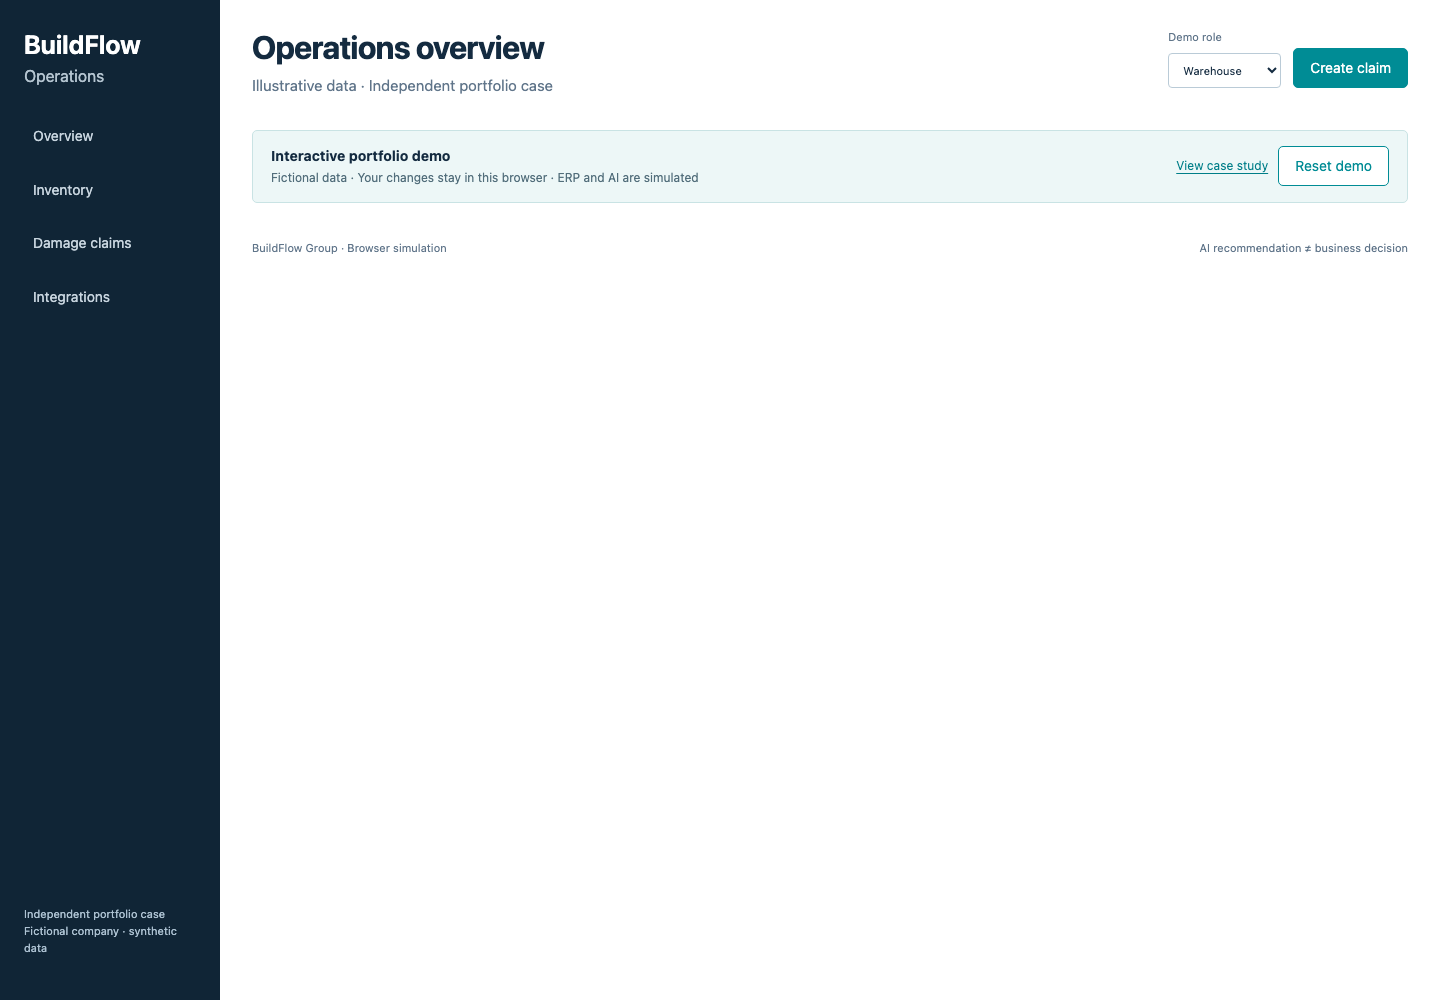
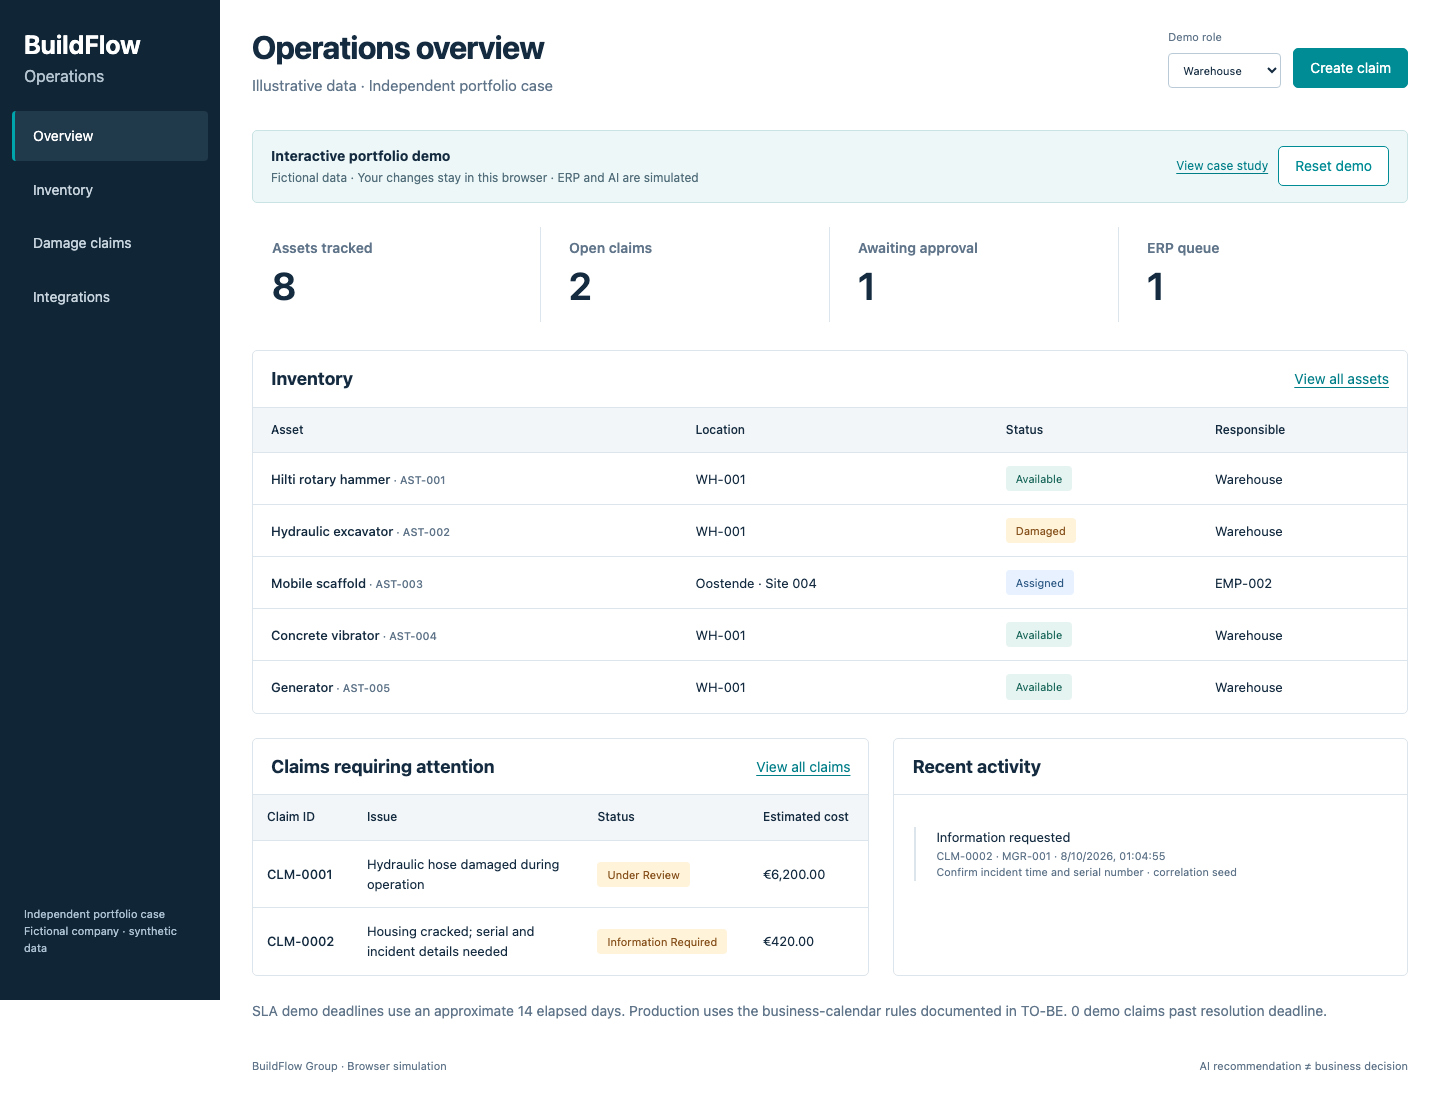
Show data loading state and capture fully rendered public dashboard

diff --git a/08-prototype/frontend/index.html b/08-prototype/frontend/index.html
@@ -1,1 +1,1 @@
-<!doctype html><html lang="en"><head><meta charset="UTF-8"><meta name="viewport" content="width=device-width,initial-scale=1"><title>BuildFlow · Operations</title><link rel="stylesheet" href="./style.css"></head><body><aside><a href="#overview" class="brand">BuildFlow<span>Operations</span></a><nav aria-label="Main navigation"><a href="#overview">Overview</a><a href="#inventory">Inventory</a><a href="#claims">Damage claims</a><a href="#integrations">Integrations</a></nav><div class="sidebar-note">Independent portfolio case<br>Fictional company · synthetic data</div></aside><main><header><div><h1 id="page-title">Operations overview</h1><p>Illustrative data · Independent portfolio case</p></div><div class="header-actions"><label class="role-label">Demo role<select id="role"><option>Warehouse</option><option>Employee</option><option>Manager</option><option>Finance</option><option>Administrator</option></select></label><a class="button" href="#create">Create claim</a></div></header><div id="message" role="status" aria-live="polite"></div><div id="app"></div><footer><span>BuildFlow Group · Local demonstrator</span><span>AI recommendation ≠ business decision</span></footer></main><script src="./app.js" type="module"></script></body></html>
+<!doctype html><html lang="en"><head><meta charset="UTF-8"><meta name="viewport" content="width=device-width,initial-scale=1"><title>BuildFlow · Operations</title><link rel="stylesheet" href="./style.css"></head><body><aside><a href="#overview" class="brand">BuildFlow<span>Operations</span></a><nav aria-label="Main navigation"><a href="#overview">Overview</a><a href="#inventory">Inventory</a><a href="#claims">Damage claims</a><a href="#integrations">Integrations</a></nav><div class="sidebar-note">Independent portfolio case<br>Fictional company · synthetic data</div></aside><main><header><div><h1 id="page-title">Operations overview</h1><p>Illustrative data · Independent portfolio case</p></div><div class="header-actions"><label class="role-label">Demo role<select id="role"><option>Warehouse</option><option>Employee</option><option>Manager</option><option>Finance</option><option>Administrator</option></select></label><a class="button" href="#create">Create claim</a></div></header><div id="message" role="status" aria-live="polite"></div><div id="app" aria-busy="true"><p class="muted">Loading fictional operations data…</p></div><footer><span>BuildFlow Group · Local demonstrator</span><span>AI recommendation ≠ business decision</span></footer></main><script src="./app.js" type="module"></script></body></html>

diff --git a/08-prototype/frontend/app.js b/08-prototype/frontend/app.js
@@ -10,7 +10,7 @@ const table=(heads,rows)=>`<div class="table-scroll"><table><thead><tr>${heads.m
 const siteName=id=>state.sites.find(s=>s.id===id)?.name||id;
 const siteOptions=state=>state.sites.map(s=>`<option value="${s.id}">${esc(s.name)}</option>`).join('');
 function feedback(text,error=false){message.textContent=text;message.className=error?'error':'';}
-async function load(){state=await readState();render();}
+async function load(){state=await readState();render();app.setAttribute('aria-busy','false');}
 let saving=false;
 async function mutate(path,body,method='POST'){
  if(saving)return null;
@@ -82,4 +82,4 @@ if(browserMode){
   finally{saving=false;}
  };
 }
-window.addEventListener('hashchange',()=>{feedback('');render();});load().catch(e=>feedback(e.message,true));
+window.addEventListener('hashchange',()=>{feedback('');render();});load().catch(e=>{app.setAttribute('aria-busy','false');app.textContent='Demo data could not be loaded. Reload the page to try again.';feedback(e.message,true);});

diff --git a/docs/quality-audit.md b/docs/quality-audit.md
@@ -69,3 +69,5 @@ Diagram previews were rendered through a local HTML wrapper and visually inspect
 The public demo uses the same pure command/state rules as the local Node API, with private browser IndexedDB state and a reset control. Three new browser scenarios pass under the GitHub repository subpath: full custody/claim/approval/AI/ERP simulation, persistence and isolation between browser contexts, and mobile/synthetic evidence upload. Checks assert no backend requests or failed assets. All nine API tests and the existing local browser workflow also pass. Browser plugin skill absent; Playwright used. [Public demo design, storage and build](pages-demo.md).
 
 **Hosted verification: PASS.** GitHub Pages deployment succeeded; unauthenticated HTTP check returned 200. The same three browser scenarios passed on the public HTTPS site, including custody/damage evidence, dual approvals, reviewed AI, ERP failure/retry, reload, isolated visitor contexts, reset and mobile evidence upload. A timing-sensitive image assertion was changed to wait for completed download; no application change was required. Hosted screenshots are in the [screenshot gallery](../14-demo/screenshots/README.md).
+
+Screenshot checks now wait for the populated dashboard rather than only the static header/banner. The first premature captures were replaced with verified loaded views. Initial data loading has an explicit message and aria-busy state; a load failure shows a retry instruction. Static and hosted workflows remain green.
